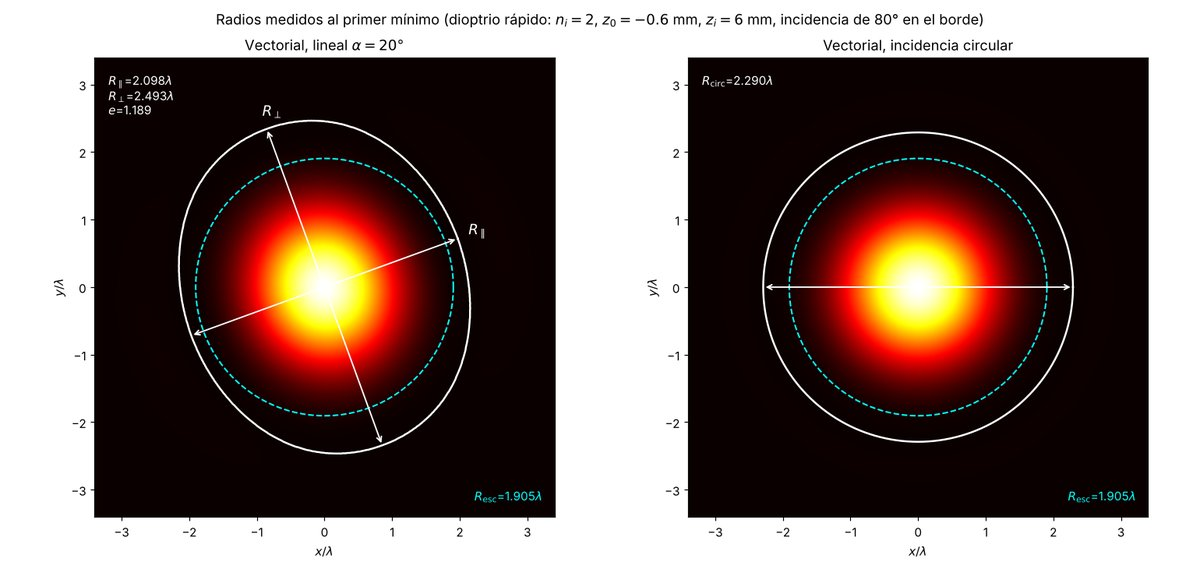
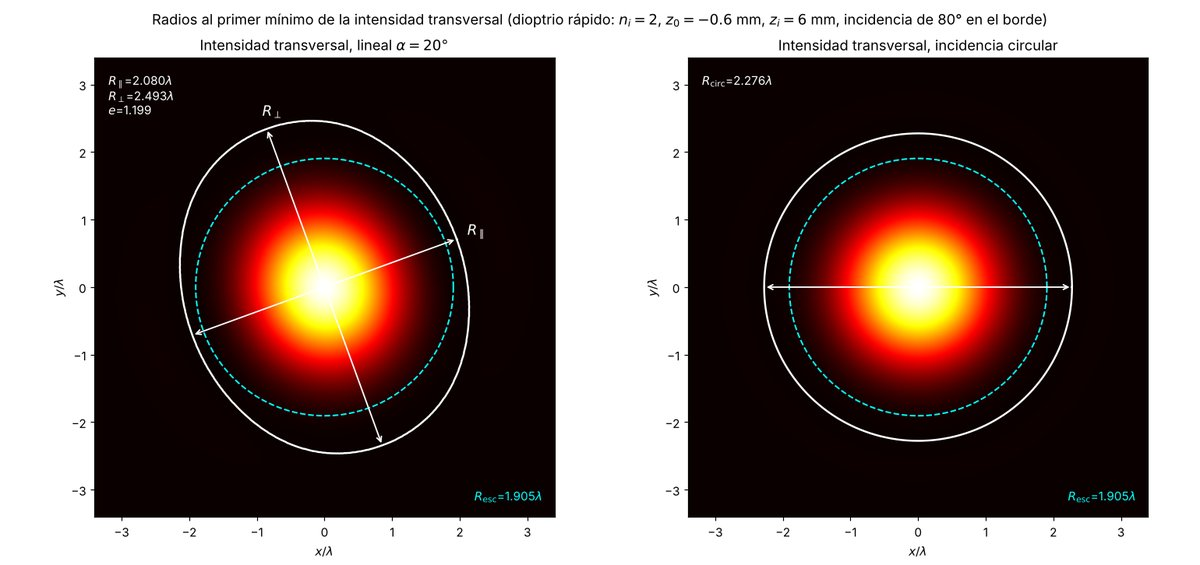
Radios del campo transversal, revisión general
- Sección de radios reescrita para la intensidad transversal: ecuación exacta
  del primer cero, fórmula metaxial cerrada, comparación con el radio de Airy
  y cota (n_i-n_0)/(n_i+n_0). Figuras de radios regeneradas con la intensidad
  transversal.
- Signo de t_-: positiva para conjugados reales; con objeto o imagen virtuales
  puede cambiar de signo e intercambiar R_par y R_perp.
- Conclusiones y notación actualizadas; |l_0| en la función pupila.
- Erratas en la introducción; dos ecuaciones partidas para que no desborden.

Claude-Session: https://claude.ai/code/session_01LxF1B5Cauc2CXP1rT197wp

diff --git a/chapters/III.Campo_en_el_plano_focal_en_un_sistema_estigmatico_simple_refractivo.tex b/chapters/III.Campo_en_el_plano_focal_en_un_sistema_estigmatico_simple_refractivo.tex
@@ -690,13 +690,15 @@ De esta manera queda expresado el campo incidente sobre el plano $P$ para una fu
 
 Con la geometría del dioptrio y el campo incidente ya caracterizados, estamos en condiciones de particularizar el resultado general de la sección~\ref{sec:caso_general} al sistema estigmático con fuente puntual en $A$. Reemplazando el campo incidente \eqref{eq:initial_field_in_p} en \eqref{eq:E_field_as_FT}, se tiene que
 \begin{equation}
+\begin{aligned}
 \vb{E}'_\perp(\vb r,z)
-=
+={}&
 n\frac{e^{inkz}}{i\lambda z}\,
 \exp\!\left[
 \frac{ink}{2z}\|\vb r\|^2
 \right]
-\,
+\\
+&\times
 \mathscr F
 \left\{
 \frac{1}{|\ell_0|}
@@ -710,6 +712,7 @@ t_s \mathbb E_0 \cdot \uvec s \, \uvec s
 \left(
 \frac{n\vb r}{\lambda z}
 \right).
+\end{aligned}
 \end{equation}
 Dado que las polarizaciones $\uvec p$ y $\uvec s$ coinciden con los vectores angulares de la base esférica centrada en $A$, $\uvec \theta_A$ y $\uvec \phi$, y usando la proyección \eqref{eq:p_prime_perp}, podemos escribir
 \begin{equation}
@@ -1127,8 +1130,11 @@ con el eje óptico, se tiene
   t_s\left[\frac{\cos\alpha'}{\cos(\alpha+\alpha')}-1\right],
   \label{eq:t_minus_deviation_identity}
 \end{equation}
-que se anula sobre el eje y es positiva fuera de él para una fuente puntual a
-distancia finita ($\alpha\neq 0$). En el límite de incidencia colimada
+que se anula sobre el eje y, fuera de él, es positiva siempre que
+$|\alpha+\alpha'|>|\alpha'|$; en particular para conjugados reales, en los que
+$\alpha$ y $\alpha'$ son positivos. Con objeto o imagen virtuales puede ser
+negativa: al orden paraxial, cuando $z_i-2z_0$ y $z_i$ tienen signos opuestos
+(apéndice~\ref{apx:ovoids_series}). En el límite de incidencia colimada
 ($\alpha=0$) ambas contribuciones se cancelan y $t_-$ se anula en toda la
 pupila. En ese límite la superficie cartesiana es un
 elipsoide de revolución de excentricidad $n_0/n_i$, con el punto imagen en su
@@ -1470,7 +1476,7 @@ a_3=0.
 
 Esta descomposición corresponde a la manera en que Chipman y colaboradores
 proponen caracterizar la \emph{aberración de polarización} de un sistema
-óptico \cite{mcguire1994}. Que se basa en escribir la matriz que caracteriza la transformalción del campo incidente en el campo sobre la esféra gaussiana de referencia centrada en el punto imagén como una combinación lineal de las matrices de Pauli. La analogía con la teoría de aberraciones de frente
+óptico \cite{mcguire1994}. Que se basa en escribir la matriz que caracteriza la transformalción del campo incidente en el campo sobre la esfera gaussiana de referencia centrada en el punto imagén como una combinación lineal de las matrices de Pauli. La analogía con la teoría de aberraciones de frente
 de onda es directa: así como la aberración escalar se define como una función
 de fase sobre la esfera de referencia de salida, la aberración vectorial se describe mediante la función
 matricial $\mathbb{T}_{xy}(\rho',\phi')$ definida sobre $\mathscr{G}'$, cuyos
@@ -3028,34 +3034,80 @@ Si la polarización incidente forma un ángulo $\psi_0$ con el eje $x$, el
 patrón es el mismo con $\varphi\to\varphi-\psi_0$: el punto focal rota
 rígidamente con la polarización, sin grados de libertad angulares adicionales.
 La estructura de \eqref{eq:I_spot_linear_deformation} implica que el lóbulo
-central deja de ser circular: sus ejes principales son las direcciones paralela
-y perpendicular a la polarización, con cortes $I_\parallel\propto|H_0-H_2|^2$ e
-$I_\perp^{(90°)}\propto|H_0+H_2|^2$. Medimos su tamaño por el primer mínimo de
-intensidad: $R_\parallel$ y $R_\perp$ son las distancias del centro al primer
-mínimo en esas dos direcciones, y $R_{\mathrm{esc}}$ es el radio de Airy, es
-decir, el primer cero de la referencia escalar ideal ($\tau_p=t_s=1$) con la
-misma pupila. Los radios se miden sobre la intensidad total
-\eqref{eq:Intensity_in_Focal_Plane}. La apodización $t_+$, que decrece hacia
-el borde de la pupila, ensancha el lóbulo en todas las direcciones; sobre ese
-ensanchamiento, el término de interferencia, con
-$\operatorname{Re}(H_0H_2^*)>0$ cerca del eje, contrae el lóbulo a lo largo de
-la polarización y lo expande en la dirección perpendicular, de modo que
+central de la intensidad transversal deja de ser circular: sus ejes
+principales son las direcciones paralela y perpendicular a la polarización, a
+lo largo de las cuales la intensidad es $|H_0-H_2|^2$ y $|H_0+H_2|^2$. Medimos
+su tamaño por el primer mínimo: los radios $R_\parallel$ y $R_\perp$ son los
+primeros ceros de $H_0\mp H_2$, es decir, las primeras raíces de
 \begin{equation}
-  R_{\mathrm{esc}} < R_\parallel < R_\perp.
+  \int_0^a \mathscr E_x(\rho')\bigl[t_+(\rho')\,J_0(q\rho')\mp t_-(\rho')\,J_2(q\rho')\bigr]\rho'\,d\rho'=0,
+  \qquad
+  R=\frac{\lambda f}{2\pi n}\,q,
+\label{eq:spot_radii_exact}
+\end{equation}
+con el signo superior para $R_\parallel$. Para conjugados reales $t_->0$ y,
+como $J_2>0$ cerca del primer cero de $H_0$, el canal $H_2$ desplaza el cero
+hacia adentro en la dirección paralela y hacia afuera en la perpendicular, de
+modo que
+\begin{equation}
+  R_\parallel < R_\perp .
 \label{eq:spot_radii_ordering}
 \end{equation}
-En la dirección paralela el primer cero se convierte en un mínimo no nulo,
-rellenado por la componente longitudinal.
+Si $t_-$ es negativa, como puede ocurrir con objeto o imagen virtuales, los
+papeles de los dos radios se intercambian.
+Fuera de los ejes principales el mínimo no llega a cero: lo rellena la
+componente cruzada, $H_2^2\sin^2 2\varphi$.
+
+Para una pupila uniforme de radio $a$, desarrollando $t_\pm$ hasta el orden
+$\rho'^2$ (apéndice~\ref{apx:ovoids_series}) y linealizando $H_0$ en torno a su
+primer cero, se obtiene, en el orden metaxial,
+\begin{equation}
+  R_{\parallel,\perp}
+  \simeq
+  R_{\mathrm{esc}}
+  \left\{
+  1
+  +0.034\,a^2\left[\frac{(n_i+n_0)(z_i-z_0)^2}{(n_i-n_0)\,z_0^2z_i^2}+\frac{1}{z_i^2}\right]
+  \mp 0.068\,a^2\,\frac{z_i-2z_0}{z_i\,z_0^2}
+  \right\},
+\label{eq:spot_radii_closed}
+\end{equation}
+donde $R_{\mathrm{esc}}=0.61\,\lambda f/(na)$ es el radio de Airy de la
+referencia escalar ideal ($\tau_p=t_s=1$). El término entre corchetes es el
+ensanchamiento por la apodización $t_+$, que decrece hacia el borde de la
+pupila, y el término con $\mp$ es la anisotropía debida a $t_-$. La
+elipticidad, $R_\perp/R_\parallel\simeq 1+0.136\,a^2(z_i-2z_0)/(z_iz_0^2)$, no
+depende del índice a este orden. La expresión \eqref{eq:spot_radii_closed}
+reproduce los radios exactos a aperturas moderadas; cerca de la incidencia
+rasante sobrestima la anisotropía, y los radios deben obtenerse de
+\eqref{eq:spot_radii_exact}. La anisotropía está, en todo caso, acotada: con
+convergencia débil, $t_-/t_+$ no puede superar $(n_i-n_0)/(n_i+n_0)$, valor
+que alcanza en incidencia rasante.
+
+La comparación con el radio de Airy se sigue de \eqref{eq:spot_radii_closed}.
+Para conjugados reales, con $u=-z_0/z_i>0$, el radio perpendicular siempre
+lo supera, y el paralelo lo supera si y solo si
+\begin{equation}
+  \frac{n_i+n_0}{n_i-n_0}\,(1+u)^2+u^2>2(1+2u),
+\end{equation}
+condición que se cumple para todo $u$ cuando $n_0<n_i\le 3n_0$. Con pupila
+uniforme y cualquier vidrio óptico, por tanto,
+\begin{equation}
+  R_{\mathrm{esc}} < R_\parallel < R_\perp :
+\end{equation}
+la apodización ensancha el lóbulo más de lo que el canal $t_-$ lo contrae a lo
+largo de la polarización, y el foco vectorial resulta mayor que el de Airy y
+elíptico. Solo con índices muy altos ($n_i>3n_0$) y el objeto cerca de la
+superficie puede $R_\parallel$ quedar por debajo de $R_{\mathrm{esc}}$; también
+con amplitudes incidentes que reduzcan la apodización, como una pupila anular.
 
 Por \eqref{eq:t_minus_deviation_identity}, la deformación crece con la
 desviación $\alpha+\alpha'$ que impone la superficie; por eso los ejemplos que
 siguen usan un objeto cercano a ella ($z_0=-0.6\,\mathrm{mm}$,
 $z_i=6\,\mathrm{mm}$) y una pupila que lleva la incidencia hasta $80^\circ$ en
-el borde. La anisotropía está, sin embargo, acotada: con convergencia débil,
-$t_-/t_+$ no puede superar $(n_i-n_0)/(n_i+n_0)$, valor que alcanza en
-incidencia rasante. La figura~\ref{fig:spot-cortes-principales} compara los
-cortes vectoriales con la referencia escalar para un dioptrio de vidrio
-($n_i=1.5$): $R_{\mathrm{esc}}=3.50\lambda$, $R_\parallel=3.92\lambda$ y
+el borde. La figura~\ref{fig:spot-cortes-principales} compara los cortes
+transversales con la referencia escalar para un dioptrio de vidrio
+($n_i=1.5$): $R_{\mathrm{esc}}=3.50\lambda$, $R_\parallel=3.90\lambda$ y
 $R_\perp=4.30\lambda$.
 
 \begin{figure}[H]
@@ -3063,21 +3115,21 @@ $R_\perp=4.30\lambda$.
   \thesisincludegraphics[width=0.7\textwidth]
     {figures/results_of_simulation/vecdiff_final/spot/spot_cortes_principales.png}
     {figures/fast/spot_cortes_principales.jpg}
-  \caption{Cortes de la intensidad total en el plano focal a lo largo de los
-  ejes principales, para incidencia lineal en un dioptrio de vidrio ($n_0=1$,
-  $n_i=1.5$, $z_0=-0.6\,\mathrm{mm}$, $z_i=6\,\mathrm{mm}$,
+  \caption{Cortes de la intensidad transversal en el plano focal a lo largo
+  de los ejes principales, para incidencia lineal en un dioptrio de vidrio
+  ($n_0=1$, $n_i=1.5$, $z_0=-0.6\,\mathrm{mm}$, $z_i=6\,\mathrm{mm}$,
   $\lambda=532\,\mathrm{nm}$, pupila uniforme de radio $0.70\,\mathrm{mm}$,
   incidencia de $80^\circ$ en el borde), comparados con la referencia escalar
   ideal ($\tau_p=t_s=1$). Los puntos sobre el eje horizontal marcan el primer
   mínimo de cada curva: $R_{\mathrm{esc}}=3.50\lambda$,
-  $R_\parallel=3.92\lambda$ y $R_\perp=4.30\lambda$.}
+  $R_\parallel=3.90\lambda$ y $R_\perp=4.30\lambda$.}
   \label{fig:spot-cortes-principales}
 \end{figure}
 
 La figura~\ref{fig:spot-radios-anotados} presenta el caso de un vidrio denso
-($n_i=2.0$, pupila de radio $0.96\,\mathrm{mm}$): $R_\parallel=2.10\lambda$ y
+($n_i=2.0$, pupila de radio $0.96\,\mathrm{mm}$): $R_\parallel=2.08\lambda$ y
 $R_\perp=2.49\lambda$ frente a $R_{\mathrm{esc}}=1.91\lambda$, es decir,
-$R_\perp/R_\parallel=1.19$.
+$R_\perp/R_\parallel=1.20$.
 
 \begin{figure}[H]
   \centering
@@ -3085,20 +3137,20 @@ $R_\perp/R_\parallel=1.19$.
     {figures/results_of_simulation/vecdiff_final/spot/spot_radios_anotados.png}
     {figures/fast/spot_radios_anotados.jpg}
   \caption{Radios principales del lóbulo central, medidos al primer mínimo de
-  intensidad, para un dioptrio de vidrio denso ($n_i=2.0$,
+  la intensidad transversal, para un dioptrio de vidrio denso ($n_i=2.0$,
   $z_0=-0.6\,\mathrm{mm}$, $z_i=6\,\mathrm{mm}$, pupila de radio
   $0.96\,\mathrm{mm}$, incidencia de $80^\circ$ en el borde). Izquierda:
-  incidencia lineal con polarización a $20°$; el contorno del primer mínimo
-  (blanco) es elíptico, con $R_\parallel=2.10\lambda$ y $R_\perp=2.49\lambda$
-  ($e\approx1.19$), frente al radio de Airy $R_{\mathrm{esc}}=1.91\lambda$
+  incidencia lineal con polarización a $20^\circ$; el contorno del primer mínimo
+  (blanco) es elíptico, con $R_\parallel=2.08\lambda$ y $R_\perp=2.49\lambda$
+  ($e\approx1.20$), frente al radio de Airy $R_{\mathrm{esc}}=1.91\lambda$
   (cian, a trazos), y los ejes principales siguen a la polarización. Derecha:
   incidencia circular; el punto permanece circular con
-  $R_{\mathrm{circ}}=2.29\lambda$.}
+  $R_{\mathrm{circ}}=2.28\lambda$.}
   \label{fig:spot-radios-anotados}
 \end{figure}
 
 Para incidencia circular la intensidad transversal es $|H_0|^2+|H_2|^2$, el
-promedio azimutal del caso lineal: el punto permanece circular y se ensancha
-respecto del escalar ($R_{\mathrm{circ}}=2.29\lambda$ en el mismo dioptrio),
-pues el canal cruzado $|H_2|^2$ y la componente longitudinal son anillos nulos
-en el eje.
+promedio azimutal del caso lineal: el punto permanece circular, con un mínimo
+que no llega a cero porque lo rellena el canal cruzado $|H_2|^2$, y cuyo radio
+coincide, a primer orden, con el primer cero de $H_0$
+($R_{\mathrm{circ}}=2.28\lambda$ en el mismo dioptrio).

diff --git a/chapters/00.Introduccion.tex b/chapters/00.Introduccion.tex
@@ -21,7 +21,7 @@ diseño óptico \cite{aplan2020,achro2022}.
 
 La minimización de las aberraciones geométricas conserva su importancia aun
 en la óptica física, donde estas se manifiestan como aberraciones de fase
-que alteran el campo en la imagen \cite{bornwolf1999,goodman2005}. La relación directa con la función aberración de fase y la longitud de camino óptico, permite deducir que en los sistemas estigmaticos esta aberración es nula. Esta propiedad hace de las Superficies Cartesianas un
+que alteran el campo en la imagen \cite{bornwolf1999,goodman2005}. La relación directa con la función aberración de fase y la longitud de camino óptico, permite deducir que en los sistemas estigmáticos esta aberración es nula. Esta propiedad hace de las Superficies Cartesianas un
 escenario apropiado para aislar las aberraciones vectoriales, pues permite
 estudiar la transformación de amplitud y polarización sin mezclarla con
 defectos de camino óptico. Aun así, la difracción produce una distribución
@@ -76,10 +76,10 @@ determinar la contribución de la transmisión vectorial a la estructura del
 campo focal en ausencia de aberración de fase.
 
 El objetivo de este trabajo es aislar y caracterizar las aberraciones de
-origen netamente vectorial que estan presentes aun en ausencia de aberración de
+origen netamente vectorial que están presentes aun en ausencia de aberración de
 fase. Para ello se calcula el campo eléctrico transmitido hacia el plano focal de una Superficie Cartesiana entre dos medios dieléctricos homogéneos e isótropos, donde el campo incidente es una onda esférica centrada en el punto objeto.
 Este sistema es el sistema estigmático más simple, y nos permite examinar los efectos de la refracción vectorial sin la contribución de las aberraciones de camino óptico. 
-En este trabajo expresamos la transmisión de forma operacional, dado el campo incidente mediante el operador matricial que se contruyó en este trabajo, damos el campo transmitido sobre la esféra gaussiana centrada en el punto imagen, matriz que a su vez, nos permite caracterizar la aberración vectorial siguiendo los métodos de McGuire y Chipman \cite{McGuire1991Response}. 
+En este trabajo expresamos la transmisión de forma operacional, dado el campo incidente mediante el operador matricial que se construyó en este trabajo, damos el campo transmitido sobre la esfera gaussiana centrada en el punto imagen, matriz que a su vez, nos permite caracterizar la aberración vectorial siguiendo los métodos de McGuire y Chipman \cite{McGuire1991Response}. 
 
-Este campo transmitido, lo propagamos hasta el plano focal usando un método vectorial que usa la linealidad de la ecuación de Helmholtz para resolver el problema vectorial propagando cada componente lineal como campos escalares, respetando la condición de transversalidad \cite{Song2025}. Bajo la aproximación de Fresnel el campo en el plano focal queda determinado por una transformación de Fourier de la aliación del operador de transmisión sobre el campo incidente. Resultado que se reduce a transformadas de Hankel cuando la iluminación incidente presenta simetría axial, formulación que permite interpretar con mayor facilidad los efectos vectoriales sobre el plano focal.  \\
+Este campo transmitido, lo propagamos hasta el plano focal usando un método vectorial que usa la linealidad de la ecuación de Helmholtz para resolver el problema vectorial propagando cada componente lineal como campos escalares, respetando la condición de transversalidad \cite{Song2025}. Bajo la aproximación de Fresnel el campo en el plano focal queda determinado por una transformación de Fourier de la aplicación del operador de transmisión sobre el campo incidente. Resultado que se reduce a transformadas de Hankel cuando la iluminación incidente presenta simetría axial, formulación que permite interpretar con mayor facilidad los efectos vectoriales sobre el plano focal.  \\
 Nuestro formalismo tiene en cuenta los efectos vectoriales tales como el acoplamiento y modulación de las polarizaciones, y la componente longitudinal del campo. Este análisis de las aberraciones vectoriales en sistemas estigmáticos es un primer paso hacia su posterior corrección. La composición de las operaciones permite, además, extender el cálculo a sistemas formados por varias Superficies Cartesianas.

diff --git a/chapters/V.Conclusiones.tex b/chapters/V.Conclusiones.tex
@@ -10,7 +10,7 @@ por su radio de curvatura y la propiedad estigmática, la refracción
 vectorial dada por los coeficientes de Fresnel y la propagación de
 Fresnel hasta el plano focal, y produce el campo focal como transformada de
 Fourier de una función pupila vectorial generalizada
-$\mathbb E^{\mathscr G'}=\mathbb T\,\mathbb E_0/\ell_0$; bajo iluminación
+$\mathbb E^{\mathscr G'}=\mathbb T\,\mathbb E_0/|\ell_0|$; bajo iluminación
 azimutalmente simétrica esta transformada se reduce a transformadas de Hankel
 de órdenes cero, uno y dos. Esta construcción se distingue de los formalismos
 comúnmente empleados en difracción vectorial porque incorpora, punto a punto,
@@ -61,13 +61,15 @@ predicción es única e independiente de la polarización, no puede describir.
 El régimen vectorial modifica también la forma del punto focal y, con ella,
 la formación de imágenes. Para incidencia lineal la interferencia entre los
 canales $\mathscr H_0$ y $\mathscr H_2$ rompe la simetría circular del lóbulo
-central: medido por su primer mínimo, el punto queda caracterizado por dos
-radios principales que satisfacen $R_{\mathrm{esc}}<R_\parallel<R_\perp$; la
-apodización $t_+$ lo ensancha respecto del radio de Airy y el canal $t_-$ lo
-contrae a lo largo de la polarización incidente y lo expande en la dirección
-perpendicular, rotando rígidamente con ella. La deformación crece con la
-desviación que impone la superficie y con el contraste de índice, pero está
-acotada por $(n_i-n_0)/(n_i+n_0)$; la incidencia circular restaura la
+central de la intensidad transversal: medido por su primer mínimo, el punto
+queda caracterizado por dos radios principales que rotan rígidamente con la
+polarización; para conjugados reales el punto se contrae a lo largo de ella y
+se expande en la dirección perpendicular ($R_\parallel<R_\perp$). En el orden metaxial los
+radios admiten una expresión cerrada; con conjugados reales, pupila uniforme
+y cualquier vidrio óptico la apodización $t_+$ domina y ambos superan el radio de Airy,
+$R_{\mathrm{esc}}<R_\parallel<R_\perp$. La deformación crece con la
+desviación que impone la superficie; en el orden metaxial no depende del
+índice, pero está acotada por $(n_i-n_0)/(n_i+n_0)$; la incidencia circular restaura la
 simetría del punto por promedio azimutal. En la imagen de objetos extensos,
 como mostró el ejemplo litográfico, la diatenuación de Fresnel hace que los
 detalles alineados con la polarización incidente pierdan más contraste que

diff --git a/chapters/00.Notacion_y_convenciones.tex b/chapters/00.Notacion_y_convenciones.tex
@@ -80,7 +80,7 @@ $\mathscr R_{ASM}$ & Operador de propagación del método de espectro angular. \
 \hline
 $f$ & Distancia focal del sistema; distancia axial hasta el plano focal de observación. \\
 $\mathrm{NA}$ & Apertura numérica del sistema óptico. \\
-$R_\parallel,\,R_\perp$ & Distancias del centro al primer mínimo de intensidad del lóbulo focal, paralela y perpendicular a la polarización incidente. \\
+$R_\parallel,\,R_\perp$ & Distancias del centro al primer mínimo de la intensidad transversal del lóbulo focal, paralela y perpendicular a la polarización incidente. \\
 $R_{\mathrm{esc}}$ & Radio de Airy: primer mínimo de la intensidad de la referencia escalar ideal con la misma pupila. \\
 \end{longtable}
 

diff --git a/appendices/apen_focal_field_explicit_forms.tex b/appendices/apen_focal_field_explicit_forms.tex
@@ -484,12 +484,14 @@ I_z(\vb r,f)=|E'_z|^2
 \end{equation}
 y por tanto
 \begin{equation}
-I(\vb r,f)=I_\perp(\vb r,f)+I_z(\vb r,f)
-=
+\begin{aligned}
+I(\vb r,f)={}&I_\perp(\vb r,f)+I_z(\vb r,f)
+\\
+={}&
 \left(
 \frac{2\pi n}{\lambda f\,|z_0|}
 \right)^2
-\left[
+\Bigl[
 \left|
 \mathscr H_1\{\tau_p\mathscr E_r\}(q)
 \right|^2
@@ -501,7 +503,8 @@ I(\vb r,f)=I_\perp(\vb r,f)+I_z(\vb r,f)
 \left|
 \mathscr H_1\{t_s\mathscr E_\phi\}(q)
 \right|^2
-\right].
+\Bigr].
+\end{aligned}
 \label{eq:I_total_cylindrical}
 \end{equation}
 La contribución longitudinal solo existe para la componente radial del campo incidente y, al ser de orden cero, no se anula sobre el eje.
